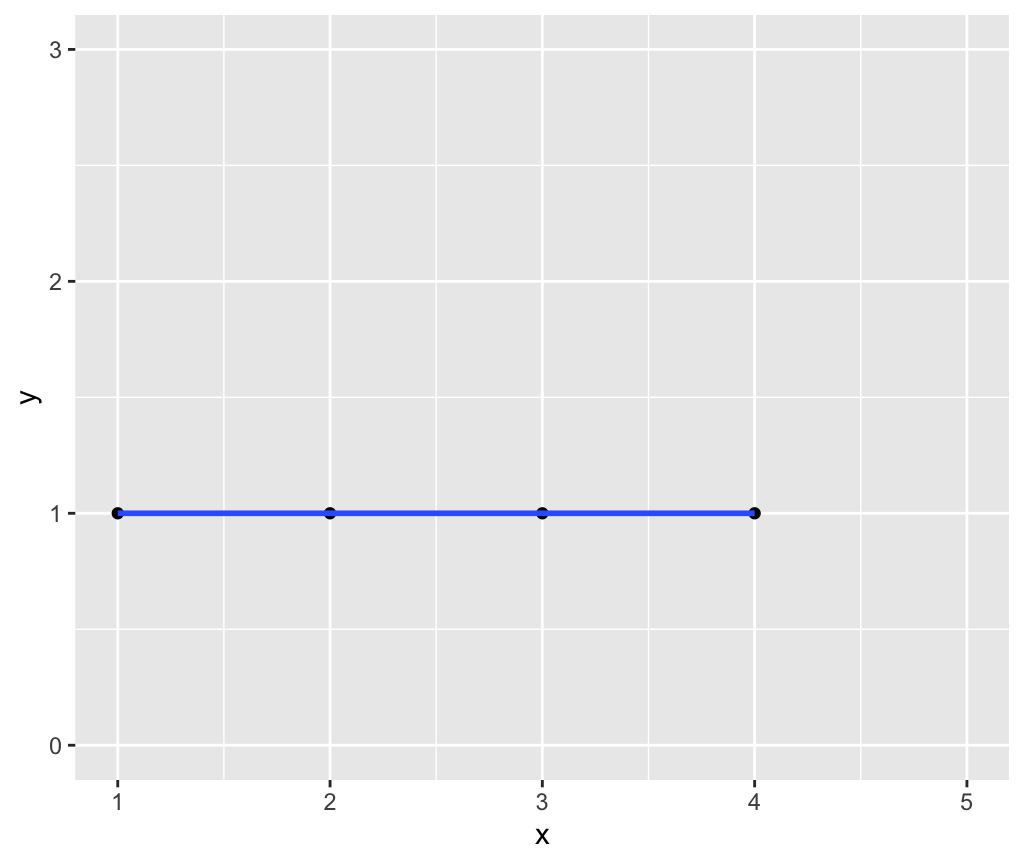
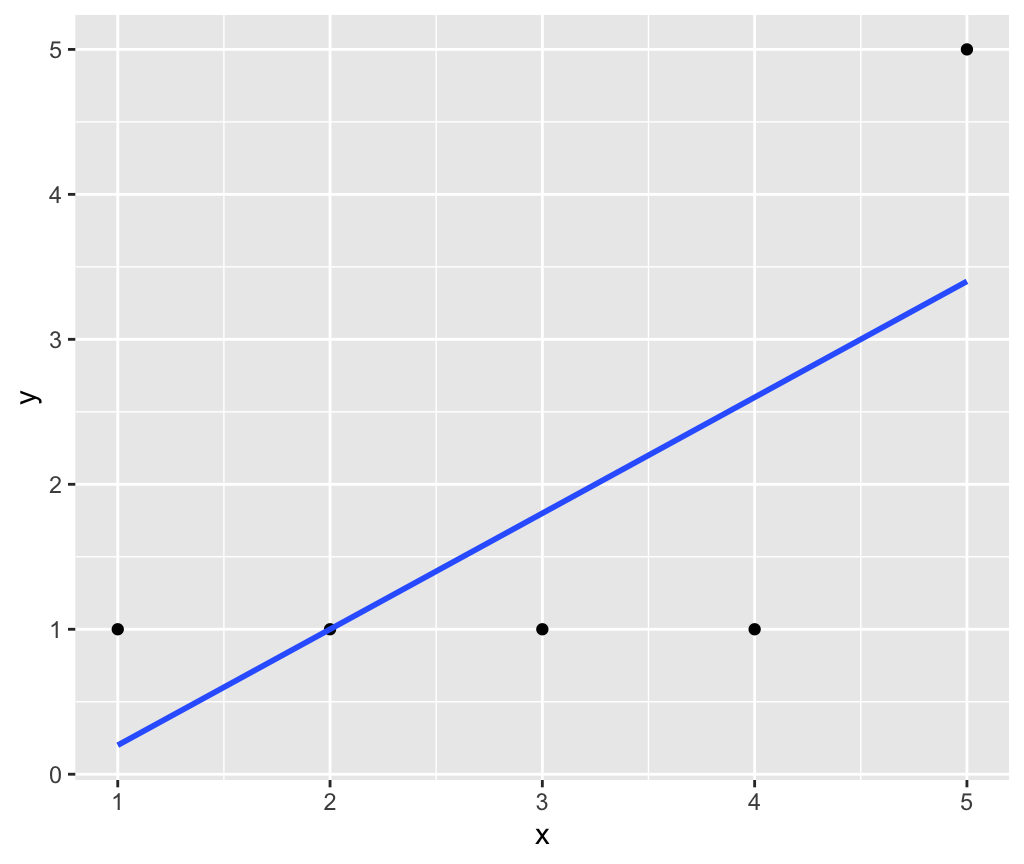
Done Lec25

diff --git a/docs/index.html b/docs/index.html
@@ -501,8 +501,28 @@ h1{font-weight: 400;}
 <div id="announcements" class="section level2">
 <h2>Announcements</h2>
 <ul>
-<li>Install and then load the <code>tidyverse</code> package: An umbrella package for data science <a href="https://www.tidyverse.org/" target="_blank">tidyverse.org/</a></li>
-<li>Smithies in SDS “Data Science Day” this Saturday in the Campus Center</li>
+<li>Install and then load the <code>tidyverse</code> package: An <em>umbrella</em> package that installs/loads many useful packages for data science all at once!
+<ul>
+<li>See <a href="https://www.tidyverse.org/" target="_blank">tidyverse.org</a> for more info.</li>
+<li>In other words</li>
+</ul>
+<div class="sourceCode" id="cb1"><pre class="sourceCode r"><code class="sourceCode r"><a class="sourceLine" id="cb1-1" data-line-number="1"><span class="co"># Don&#39;t do all this:</span></a>
+<a class="sourceLine" id="cb1-2" data-line-number="2"><span class="kw">library</span>(ggplot2)</a>
+<a class="sourceLine" id="cb1-3" data-line-number="3"><span class="kw">library</span>(dplyr)</a>
+<a class="sourceLine" id="cb1-4" data-line-number="4"><span class="kw">library</span>(readr)</a>
+<a class="sourceLine" id="cb1-5" data-line-number="5"><span class="kw">library</span>(tidyr)</a>
+<a class="sourceLine" id="cb1-6" data-line-number="6"><span class="kw">library</span>(stringr)</a>
+<a class="sourceLine" id="cb1-7" data-line-number="7"><span class="kw">library</span>(tibble)</a>
+<a class="sourceLine" id="cb1-8" data-line-number="8"><span class="kw">library</span>(forcats)</a>
+<a class="sourceLine" id="cb1-9" data-line-number="9"><span class="kw">library</span>(purrr)</a>
+<a class="sourceLine" id="cb1-10" data-line-number="10"></a>
+<a class="sourceLine" id="cb1-11" data-line-number="11"><span class="co"># Do this:</span></a>
+<a class="sourceLine" id="cb1-12" data-line-number="12"><span class="kw">library</span>(tidyverse)</a></code></pre></div></li>
+<li>Smithies in SDS “Data Science Day” this Saturday in the Campus Center featuring:
+<ul>
+<li>RStudio tidyverse developer advocate <a href="https://twitter.com/dataandme" target="_blank">Mara Averick</a></li>
+<li>BaseballCloud data scientist and UMass MBA/MS in Sports Management student <a href="https://twitter.com/cfl1ght" target="_blank">Christien Wright</a></li>
+</ul></li>
 </ul>
 <center>
 <img src="static/images/announcements/DSD.png" width="750" />
@@ -514,7 +534,7 @@ h1{font-weight: 400;}
 <div id="chalk-talk" class="section level3">
 <h3>1. Chalk talk</h3>
 <ul>
-<li>Go over Midterm II practice exam solutions (practice exam is posted on Slack under <code>#general_announcements</code>)</li>
+<li>Go over Midterm II practice exam solutions. Practice exam is posted on Slack under <code>#general_announcements</code>.</li>
 </ul>
 </div>
 <div id="in-class-exercise" class="section level3">
@@ -629,30 +649,30 @@ h1{font-weight: 400;}
 <li><code>coord_cartesian(ylim=c(a, b))</code> zooms in on the the y-axis to be between <code>a</code> to <code>b</code> but does not “clip” (throw out) the points outside this interval</li>
 </ul>
 <p>For example, consider the following regression line:</p>
-<div class="sourceCode" id="cb1"><pre class="sourceCode r"><code class="sourceCode r"><a class="sourceLine" id="cb1-1" data-line-number="1"><span class="kw">library</span>(ggplot2)</a>
-<a class="sourceLine" id="cb1-2" data-line-number="2"><span class="kw">library</span>(dplyr)</a>
-<a class="sourceLine" id="cb1-3" data-line-number="3"></a>
-<a class="sourceLine" id="cb1-4" data-line-number="4">example &lt;-<span class="st"> </span><span class="kw">tibble</span>(</a>
-<a class="sourceLine" id="cb1-5" data-line-number="5">  <span class="dt">x =</span> <span class="kw">c</span>(<span class="dv">1</span>, <span class="dv">2</span>, <span class="dv">3</span>, <span class="dv">4</span>, <span class="dv">5</span>),</a>
-<a class="sourceLine" id="cb1-6" data-line-number="6">  <span class="dt">y =</span> <span class="kw">c</span>(<span class="dv">1</span>, <span class="dv">1</span>, <span class="dv">1</span>, <span class="dv">1</span>, <span class="dv">5</span>)</a>
-<a class="sourceLine" id="cb1-7" data-line-number="7">)</a>
-<a class="sourceLine" id="cb1-8" data-line-number="8"></a>
-<a class="sourceLine" id="cb1-9" data-line-number="9"><span class="kw">ggplot</span>(example, <span class="kw">aes</span>(<span class="dt">x =</span> x, <span class="dt">y =</span> y)) <span class="op">+</span></a>
-<a class="sourceLine" id="cb1-10" data-line-number="10"><span class="st">  </span><span class="kw">geom_point</span>() <span class="op">+</span></a>
-<a class="sourceLine" id="cb1-11" data-line-number="11"><span class="st">  </span><span class="kw">geom_smooth</span>(<span class="dt">method =</span> <span class="st">&quot;lm&quot;</span>, <span class="dt">se =</span> <span class="ot">FALSE</span>)</a></code></pre></div>
-<p><img src="index_files/figure-html/unnamed-chunk-1-1.png" width="512" /></p>
-<p>Let’s set the y-axis limit to be between 0 and 3. Using <code>ylim(0, 3)</code> clips out the point <code>(5, 5)</code> and thus the regression line is flat:</p>
-<div class="sourceCode" id="cb2"><pre class="sourceCode r"><code class="sourceCode r"><a class="sourceLine" id="cb2-1" data-line-number="1"><span class="kw">ggplot</span>(example, <span class="kw">aes</span>(<span class="dt">x =</span> x, <span class="dt">y =</span> y)) <span class="op">+</span></a>
-<a class="sourceLine" id="cb2-2" data-line-number="2"><span class="st">  </span><span class="kw">geom_point</span>() <span class="op">+</span></a>
-<a class="sourceLine" id="cb2-3" data-line-number="3"><span class="st">  </span><span class="kw">geom_smooth</span>(<span class="dt">method =</span> <span class="st">&quot;lm&quot;</span>, <span class="dt">se =</span> <span class="ot">FALSE</span>) <span class="op">+</span></a>
-<a class="sourceLine" id="cb2-4" data-line-number="4"><span class="st">  </span><span class="kw">ylim</span>(<span class="dv">0</span>, <span class="dv">3</span>)</a></code></pre></div>
+<div class="sourceCode" id="cb2"><pre class="sourceCode r"><code class="sourceCode r"><a class="sourceLine" id="cb2-1" data-line-number="1"><span class="kw">library</span>(ggplot2)</a>
+<a class="sourceLine" id="cb2-2" data-line-number="2"><span class="kw">library</span>(dplyr)</a>
+<a class="sourceLine" id="cb2-3" data-line-number="3"></a>
+<a class="sourceLine" id="cb2-4" data-line-number="4">example &lt;-<span class="st"> </span><span class="kw">tibble</span>(</a>
+<a class="sourceLine" id="cb2-5" data-line-number="5">  <span class="dt">x =</span> <span class="kw">c</span>(<span class="dv">1</span>, <span class="dv">2</span>, <span class="dv">3</span>, <span class="dv">4</span>, <span class="dv">5</span>),</a>
+<a class="sourceLine" id="cb2-6" data-line-number="6">  <span class="dt">y =</span> <span class="kw">c</span>(<span class="dv">1</span>, <span class="dv">1</span>, <span class="dv">1</span>, <span class="dv">1</span>, <span class="dv">5</span>)</a>
+<a class="sourceLine" id="cb2-7" data-line-number="7">)</a>
+<a class="sourceLine" id="cb2-8" data-line-number="8"></a>
+<a class="sourceLine" id="cb2-9" data-line-number="9"><span class="kw">ggplot</span>(example, <span class="kw">aes</span>(<span class="dt">x =</span> x, <span class="dt">y =</span> y)) <span class="op">+</span></a>
+<a class="sourceLine" id="cb2-10" data-line-number="10"><span class="st">  </span><span class="kw">geom_point</span>() <span class="op">+</span></a>
+<a class="sourceLine" id="cb2-11" data-line-number="11"><span class="st">  </span><span class="kw">geom_smooth</span>(<span class="dt">method =</span> <span class="st">&quot;lm&quot;</span>, <span class="dt">se =</span> <span class="ot">FALSE</span>)</a></code></pre></div>
 <p><img src="index_files/figure-html/unnamed-chunk-2-1.png" width="512" /></p>
-<p>However, using <code>coord_cartesian(ylim = c(0, 3))</code> merely zooms in on this part of the y-axis without clipping the point <code>(5, 5)</code> and thus the regression line is the original one:</p>
+<p>Let’s set the y-axis limit to be between 0 and 3. Using <code>ylim(0, 3)</code> clips out the point <code>(5, 5)</code> and thus the regression line is flat:</p>
 <div class="sourceCode" id="cb3"><pre class="sourceCode r"><code class="sourceCode r"><a class="sourceLine" id="cb3-1" data-line-number="1"><span class="kw">ggplot</span>(example, <span class="kw">aes</span>(<span class="dt">x =</span> x, <span class="dt">y =</span> y)) <span class="op">+</span></a>
 <a class="sourceLine" id="cb3-2" data-line-number="2"><span class="st">  </span><span class="kw">geom_point</span>() <span class="op">+</span></a>
 <a class="sourceLine" id="cb3-3" data-line-number="3"><span class="st">  </span><span class="kw">geom_smooth</span>(<span class="dt">method =</span> <span class="st">&quot;lm&quot;</span>, <span class="dt">se =</span> <span class="ot">FALSE</span>) <span class="op">+</span></a>
-<a class="sourceLine" id="cb3-4" data-line-number="4"><span class="st">  </span><span class="kw">coord_cartesian</span>(<span class="dt">ylim =</span> <span class="kw">c</span>(<span class="dv">0</span>, <span class="dv">3</span>))</a></code></pre></div>
+<a class="sourceLine" id="cb3-4" data-line-number="4"><span class="st">  </span><span class="kw">ylim</span>(<span class="dv">0</span>, <span class="dv">3</span>)</a></code></pre></div>
 <p><img src="index_files/figure-html/unnamed-chunk-3-1.png" width="512" /></p>
+<p>However, using <code>coord_cartesian(ylim = c(0, 3))</code> merely zooms in on this part of the y-axis without clipping the point <code>(5, 5)</code> and thus the regression line is the original one:</p>
+<div class="sourceCode" id="cb4"><pre class="sourceCode r"><code class="sourceCode r"><a class="sourceLine" id="cb4-1" data-line-number="1"><span class="kw">ggplot</span>(example, <span class="kw">aes</span>(<span class="dt">x =</span> x, <span class="dt">y =</span> y)) <span class="op">+</span></a>
+<a class="sourceLine" id="cb4-2" data-line-number="2"><span class="st">  </span><span class="kw">geom_point</span>() <span class="op">+</span></a>
+<a class="sourceLine" id="cb4-3" data-line-number="3"><span class="st">  </span><span class="kw">geom_smooth</span>(<span class="dt">method =</span> <span class="st">&quot;lm&quot;</span>, <span class="dt">se =</span> <span class="ot">FALSE</span>) <span class="op">+</span></a>
+<a class="sourceLine" id="cb4-4" data-line-number="4"><span class="st">  </span><span class="kw">coord_cartesian</span>(<span class="dt">ylim =</span> <span class="kw">c</span>(<span class="dv">0</span>, <span class="dv">3</span>))</a></code></pre></div>
+<p><img src="index_files/figure-html/unnamed-chunk-4-1.png" width="512" /></p>
 </div>
 <div id="in-class-exercise-4" class="section level3">
 <h3>2. In-class exercise</h3>
@@ -954,33 +974,33 @@ I created a cheat sheet of <a href="https://twitter.com/hashtag/dplyr?src=hash&a
 <div id="in-class-exercise-13" class="section level3">
 <h3>2. In-class exercise</h3>
 <p>First, copy this to your <code>classnotes.Rmd</code> and go over code.</p>
-<div class="sourceCode" id="cb4"><pre class="sourceCode r"><code class="sourceCode r"><a class="sourceLine" id="cb4-1" data-line-number="1"><span class="kw">library</span>(ggplot2)</a>
-<a class="sourceLine" id="cb4-2" data-line-number="2"><span class="kw">library</span>(dplyr)</a>
-<a class="sourceLine" id="cb4-3" data-line-number="3"><span class="kw">library</span>(gapminder)</a>
-<a class="sourceLine" id="cb4-4" data-line-number="4"></a>
-<a class="sourceLine" id="cb4-5" data-line-number="5"><span class="co"># 1. Recreate plot from PS02 but with no color:</span></a>
-<a class="sourceLine" id="cb4-6" data-line-number="6">gapminder_<span class="dv">2007</span> &lt;-<span class="st"> </span>gapminder <span class="op">%&gt;%</span><span class="st"> </span></a>
-<a class="sourceLine" id="cb4-7" data-line-number="7"><span class="st">  </span><span class="kw">filter</span>(year <span class="op">==</span><span class="st"> </span><span class="dv">2007</span>)</a>
-<a class="sourceLine" id="cb4-8" data-line-number="8"></a>
-<a class="sourceLine" id="cb4-9" data-line-number="9"><span class="co"># 1.a) Add LOESS smoother layer with geom_smooth()</span></a>
-<a class="sourceLine" id="cb4-10" data-line-number="10"><span class="kw">ggplot</span>(<span class="dt">data =</span> gapminder_<span class="dv">2007</span>, <span class="dt">mapping =</span> <span class="kw">aes</span>(<span class="dt">x =</span> gdpPercap, <span class="dt">y =</span> lifeExp, <span class="dt">size =</span> pop)) <span class="op">+</span></a>
-<a class="sourceLine" id="cb4-11" data-line-number="11"><span class="st">  </span><span class="kw">geom_point</span>() <span class="op">+</span></a>
-<a class="sourceLine" id="cb4-12" data-line-number="12"><span class="st">  </span><span class="kw">geom_smooth</span>()</a>
-<a class="sourceLine" id="cb4-13" data-line-number="13"></a>
-<a class="sourceLine" id="cb4-14" data-line-number="14"><span class="co"># 1.b) Remove standard error bars</span></a>
-<a class="sourceLine" id="cb4-15" data-line-number="15"><span class="kw">ggplot</span>(<span class="dt">data =</span> gapminder_<span class="dv">2007</span>, <span class="dt">mapping =</span> <span class="kw">aes</span>(<span class="dt">x =</span> gdpPercap, <span class="dt">y =</span> lifeExp, <span class="dt">size =</span> pop)) <span class="op">+</span></a>
-<a class="sourceLine" id="cb4-16" data-line-number="16"><span class="st">  </span><span class="kw">geom_point</span>() <span class="op">+</span></a>
-<a class="sourceLine" id="cb4-17" data-line-number="17"><span class="st">  </span><span class="kw">geom_smooth</span>(<span class="dt">se =</span> <span class="ot">FALSE</span>)</a>
-<a class="sourceLine" id="cb4-18" data-line-number="18"></a>
-<a class="sourceLine" id="cb4-19" data-line-number="19"><span class="co"># 1.c) Change span of &quot;smoothing&quot; window by changing span = value. Try different values.</span></a>
-<a class="sourceLine" id="cb4-20" data-line-number="20"><span class="kw">ggplot</span>(<span class="dt">data =</span> gapminder_<span class="dv">2007</span>, <span class="dt">mapping =</span> <span class="kw">aes</span>(<span class="dt">x =</span> gdpPercap, <span class="dt">y =</span> lifeExp, <span class="dt">size =</span> pop)) <span class="op">+</span></a>
-<a class="sourceLine" id="cb4-21" data-line-number="21"><span class="st">  </span><span class="kw">geom_point</span>() <span class="op">+</span></a>
-<a class="sourceLine" id="cb4-22" data-line-number="22"><span class="st">  </span><span class="kw">geom_smooth</span>(<span class="dt">se =</span> <span class="ot">FALSE</span>, <span class="dt">span =</span> <span class="fl">0.25</span>)</a>
-<a class="sourceLine" id="cb4-23" data-line-number="23"></a>
-<a class="sourceLine" id="cb4-24" data-line-number="24"><span class="co"># 1.d) Force line to be straight. i.e. linear regression</span></a>
-<a class="sourceLine" id="cb4-25" data-line-number="25"><span class="kw">ggplot</span>(<span class="dt">data =</span> gapminder_<span class="dv">2007</span>, <span class="dt">mapping =</span> <span class="kw">aes</span>(<span class="dt">x =</span> gdpPercap, <span class="dt">y =</span> lifeExp, <span class="dt">size =</span> pop)) <span class="op">+</span></a>
-<a class="sourceLine" id="cb4-26" data-line-number="26"><span class="st">  </span><span class="kw">geom_point</span>() <span class="op">+</span></a>
-<a class="sourceLine" id="cb4-27" data-line-number="27"><span class="st">  </span><span class="kw">geom_smooth</span>(<span class="dt">method =</span> <span class="st">&quot;lm&quot;</span>, <span class="dt">se =</span> <span class="ot">FALSE</span>)</a></code></pre></div>
+<div class="sourceCode" id="cb5"><pre class="sourceCode r"><code class="sourceCode r"><a class="sourceLine" id="cb5-1" data-line-number="1"><span class="kw">library</span>(ggplot2)</a>
+<a class="sourceLine" id="cb5-2" data-line-number="2"><span class="kw">library</span>(dplyr)</a>
+<a class="sourceLine" id="cb5-3" data-line-number="3"><span class="kw">library</span>(gapminder)</a>
+<a class="sourceLine" id="cb5-4" data-line-number="4"></a>
+<a class="sourceLine" id="cb5-5" data-line-number="5"><span class="co"># 1. Recreate plot from PS02 but with no color:</span></a>
+<a class="sourceLine" id="cb5-6" data-line-number="6">gapminder_<span class="dv">2007</span> &lt;-<span class="st"> </span>gapminder <span class="op">%&gt;%</span><span class="st"> </span></a>
+<a class="sourceLine" id="cb5-7" data-line-number="7"><span class="st">  </span><span class="kw">filter</span>(year <span class="op">==</span><span class="st"> </span><span class="dv">2007</span>)</a>
+<a class="sourceLine" id="cb5-8" data-line-number="8"></a>
+<a class="sourceLine" id="cb5-9" data-line-number="9"><span class="co"># 1.a) Add LOESS smoother layer with geom_smooth()</span></a>
+<a class="sourceLine" id="cb5-10" data-line-number="10"><span class="kw">ggplot</span>(<span class="dt">data =</span> gapminder_<span class="dv">2007</span>, <span class="dt">mapping =</span> <span class="kw">aes</span>(<span class="dt">x =</span> gdpPercap, <span class="dt">y =</span> lifeExp, <span class="dt">size =</span> pop)) <span class="op">+</span></a>
+<a class="sourceLine" id="cb5-11" data-line-number="11"><span class="st">  </span><span class="kw">geom_point</span>() <span class="op">+</span></a>
+<a class="sourceLine" id="cb5-12" data-line-number="12"><span class="st">  </span><span class="kw">geom_smooth</span>()</a>
+<a class="sourceLine" id="cb5-13" data-line-number="13"></a>
+<a class="sourceLine" id="cb5-14" data-line-number="14"><span class="co"># 1.b) Remove standard error bars</span></a>
+<a class="sourceLine" id="cb5-15" data-line-number="15"><span class="kw">ggplot</span>(<span class="dt">data =</span> gapminder_<span class="dv">2007</span>, <span class="dt">mapping =</span> <span class="kw">aes</span>(<span class="dt">x =</span> gdpPercap, <span class="dt">y =</span> lifeExp, <span class="dt">size =</span> pop)) <span class="op">+</span></a>
+<a class="sourceLine" id="cb5-16" data-line-number="16"><span class="st">  </span><span class="kw">geom_point</span>() <span class="op">+</span></a>
+<a class="sourceLine" id="cb5-17" data-line-number="17"><span class="st">  </span><span class="kw">geom_smooth</span>(<span class="dt">se =</span> <span class="ot">FALSE</span>)</a>
+<a class="sourceLine" id="cb5-18" data-line-number="18"></a>
+<a class="sourceLine" id="cb5-19" data-line-number="19"><span class="co"># 1.c) Change span of &quot;smoothing&quot; window by changing span = value. Try different values.</span></a>
+<a class="sourceLine" id="cb5-20" data-line-number="20"><span class="kw">ggplot</span>(<span class="dt">data =</span> gapminder_<span class="dv">2007</span>, <span class="dt">mapping =</span> <span class="kw">aes</span>(<span class="dt">x =</span> gdpPercap, <span class="dt">y =</span> lifeExp, <span class="dt">size =</span> pop)) <span class="op">+</span></a>
+<a class="sourceLine" id="cb5-21" data-line-number="21"><span class="st">  </span><span class="kw">geom_point</span>() <span class="op">+</span></a>
+<a class="sourceLine" id="cb5-22" data-line-number="22"><span class="st">  </span><span class="kw">geom_smooth</span>(<span class="dt">se =</span> <span class="ot">FALSE</span>, <span class="dt">span =</span> <span class="fl">0.25</span>)</a>
+<a class="sourceLine" id="cb5-23" data-line-number="23"></a>
+<a class="sourceLine" id="cb5-24" data-line-number="24"><span class="co"># 1.d) Force line to be straight. i.e. linear regression</span></a>
+<a class="sourceLine" id="cb5-25" data-line-number="25"><span class="kw">ggplot</span>(<span class="dt">data =</span> gapminder_<span class="dv">2007</span>, <span class="dt">mapping =</span> <span class="kw">aes</span>(<span class="dt">x =</span> gdpPercap, <span class="dt">y =</span> lifeExp, <span class="dt">size =</span> pop)) <span class="op">+</span></a>
+<a class="sourceLine" id="cb5-26" data-line-number="26"><span class="st">  </span><span class="kw">geom_point</span>() <span class="op">+</span></a>
+<a class="sourceLine" id="cb5-27" data-line-number="27"><span class="st">  </span><span class="kw">geom_smooth</span>(<span class="dt">method =</span> <span class="st">&quot;lm&quot;</span>, <span class="dt">se =</span> <span class="ot">FALSE</span>)</a></code></pre></div>
 <p>Second, in <code>loess.Rmd</code> you’re change only the code within the code</p>
 <pre><code>renderPlot({ 
     
@@ -1041,33 +1061,33 @@ I created a cheat sheet of <a href="https://twitter.com/hashtag/dplyr?src=hash&a
 <li>Change both the color of the scatterplot points and the fill of the bars. You can do this by selecting a palette from <a href="http://colorbrewer2.org/" target="_blank">colorbrewer2.org</a> or by setting them manually</li>
 </ol></li>
 </ul>
-<div class="sourceCode" id="cb6"><pre class="sourceCode r"><code class="sourceCode r"><a class="sourceLine" id="cb6-1" data-line-number="1"><span class="kw">library</span>(ggplot2)</a>
-<a class="sourceLine" id="cb6-2" data-line-number="2"><span class="kw">library</span>(dplyr)</a>
-<a class="sourceLine" id="cb6-3" data-line-number="3"><span class="kw">library</span>(nycflights13)</a>
-<a class="sourceLine" id="cb6-4" data-line-number="4"><span class="kw">library</span>(gapminder)</a>
-<a class="sourceLine" id="cb6-5" data-line-number="5"></a>
-<a class="sourceLine" id="cb6-6" data-line-number="6"><span class="co"># 1. Recreate plot from PS02, but change default &quot;color&quot; palette of points:</span></a>
-<a class="sourceLine" id="cb6-7" data-line-number="7">gapminder_<span class="dv">2007</span> &lt;-<span class="st"> </span>gapminder <span class="op">%&gt;%</span><span class="st"> </span></a>
-<a class="sourceLine" id="cb6-8" data-line-number="8"><span class="st">  </span><span class="kw">filter</span>(year <span class="op">==</span><span class="st"> </span><span class="dv">2007</span>)</a>
-<a class="sourceLine" id="cb6-9" data-line-number="9"><span class="kw">ggplot</span>(<span class="dt">data =</span> gapminder_<span class="dv">2007</span>, </a>
-<a class="sourceLine" id="cb6-10" data-line-number="10">       <span class="dt">mapping =</span> <span class="kw">aes</span>(<span class="dt">x =</span> gdpPercap, <span class="dt">y =</span> lifeExp, <span class="dt">size =</span> pop, <span class="dt">color =</span> continent)) <span class="op">+</span></a>
-<a class="sourceLine" id="cb6-11" data-line-number="11"><span class="st">  </span><span class="kw">geom_point</span>() <span class="op">+</span></a>
-<a class="sourceLine" id="cb6-12" data-line-number="12"><span class="st">  </span><span class="kw">scale_color_brewer</span>(<span class="dt">palette =</span> <span class="st">&quot;Set1&quot;</span>)</a>
-<a class="sourceLine" id="cb6-13" data-line-number="13"></a>
-<a class="sourceLine" id="cb6-14" data-line-number="14"><span class="co"># 2.a) Recreate Figure 2.26 but change default &quot;fill&quot; color of bars by adding a </span></a>
-<a class="sourceLine" id="cb6-15" data-line-number="15"><span class="co"># palette layer:</span></a>
-<a class="sourceLine" id="cb6-16" data-line-number="16"><span class="kw">ggplot</span>(<span class="dt">data =</span> flights, <span class="dt">mapping =</span> <span class="kw">aes</span>(<span class="dt">x =</span> carrier, <span class="dt">fill =</span> origin)) <span class="op">+</span></a>
-<a class="sourceLine" id="cb6-17" data-line-number="17"><span class="st">  </span><span class="kw">geom_bar</span>(<span class="dt">position =</span> <span class="kw">position_dodge</span>(<span class="dt">preserve =</span> <span class="st">&quot;single&quot;</span>)) <span class="op">+</span></a>
-<a class="sourceLine" id="cb6-18" data-line-number="18"><span class="st">  </span><span class="kw">scale_fill_brewer</span>(<span class="dt">palette =</span> <span class="st">&quot;Set1&quot;</span>)</a>
-<a class="sourceLine" id="cb6-19" data-line-number="19"></a>
-<a class="sourceLine" id="cb6-20" data-line-number="20"><span class="co"># 2.b) Recreate Figure 2.26 but change default &quot;fill&quot; color of bars by manually </span></a>
-<a class="sourceLine" id="cb6-21" data-line-number="21"><span class="co"># changing colors in a layer:</span></a>
-<a class="sourceLine" id="cb6-22" data-line-number="22"><span class="kw">ggplot</span>(<span class="dt">data =</span> flights, <span class="dt">mapping =</span> <span class="kw">aes</span>(<span class="dt">x =</span> carrier, <span class="dt">fill =</span> origin)) <span class="op">+</span></a>
-<a class="sourceLine" id="cb6-23" data-line-number="23"><span class="st">  </span><span class="kw">geom_bar</span>(<span class="dt">position =</span> <span class="kw">position_dodge</span>(<span class="dt">preserve =</span> <span class="st">&quot;single&quot;</span>)) <span class="op">+</span></a>
-<a class="sourceLine" id="cb6-24" data-line-number="24"><span class="st">  </span><span class="kw">scale_fill_manual</span>(<span class="dt">values =</span> <span class="kw">c</span>(<span class="st">&quot;darkorange&quot;</span>, <span class="st">&quot;forestgreen&quot;</span>, <span class="st">&quot;navyblue&quot;</span>))</a>
-<a class="sourceLine" id="cb6-25" data-line-number="25"></a>
-<a class="sourceLine" id="cb6-26" data-line-number="26"><span class="co"># 2.c) Soooooo many choices...</span></a>
-<a class="sourceLine" id="cb6-27" data-line-number="27"><span class="kw">colors</span>()</a></code></pre></div>
+<div class="sourceCode" id="cb7"><pre class="sourceCode r"><code class="sourceCode r"><a class="sourceLine" id="cb7-1" data-line-number="1"><span class="kw">library</span>(ggplot2)</a>
+<a class="sourceLine" id="cb7-2" data-line-number="2"><span class="kw">library</span>(dplyr)</a>
+<a class="sourceLine" id="cb7-3" data-line-number="3"><span class="kw">library</span>(nycflights13)</a>
+<a class="sourceLine" id="cb7-4" data-line-number="4"><span class="kw">library</span>(gapminder)</a>
+<a class="sourceLine" id="cb7-5" data-line-number="5"></a>
+<a class="sourceLine" id="cb7-6" data-line-number="6"><span class="co"># 1. Recreate plot from PS02, but change default &quot;color&quot; palette of points:</span></a>
+<a class="sourceLine" id="cb7-7" data-line-number="7">gapminder_<span class="dv">2007</span> &lt;-<span class="st"> </span>gapminder <span class="op">%&gt;%</span><span class="st"> </span></a>
+<a class="sourceLine" id="cb7-8" data-line-number="8"><span class="st">  </span><span class="kw">filter</span>(year <span class="op">==</span><span class="st"> </span><span class="dv">2007</span>)</a>
+<a class="sourceLine" id="cb7-9" data-line-number="9"><span class="kw">ggplot</span>(<span class="dt">data =</span> gapminder_<span class="dv">2007</span>, </a>
+<a class="sourceLine" id="cb7-10" data-line-number="10">       <span class="dt">mapping =</span> <span class="kw">aes</span>(<span class="dt">x =</span> gdpPercap, <span class="dt">y =</span> lifeExp, <span class="dt">size =</span> pop, <span class="dt">color =</span> continent)) <span class="op">+</span></a>
+<a class="sourceLine" id="cb7-11" data-line-number="11"><span class="st">  </span><span class="kw">geom_point</span>() <span class="op">+</span></a>
+<a class="sourceLine" id="cb7-12" data-line-number="12"><span class="st">  </span><span class="kw">scale_color_brewer</span>(<span class="dt">palette =</span> <span class="st">&quot;Set1&quot;</span>)</a>
+<a class="sourceLine" id="cb7-13" data-line-number="13"></a>
+<a class="sourceLine" id="cb7-14" data-line-number="14"><span class="co"># 2.a) Recreate Figure 2.26 but change default &quot;fill&quot; color of bars by adding a </span></a>
+<a class="sourceLine" id="cb7-15" data-line-number="15"><span class="co"># palette layer:</span></a>
+<a class="sourceLine" id="cb7-16" data-line-number="16"><span class="kw">ggplot</span>(<span class="dt">data =</span> flights, <span class="dt">mapping =</span> <span class="kw">aes</span>(<span class="dt">x =</span> carrier, <span class="dt">fill =</span> origin)) <span class="op">+</span></a>
+<a class="sourceLine" id="cb7-17" data-line-number="17"><span class="st">  </span><span class="kw">geom_bar</span>(<span class="dt">position =</span> <span class="kw">position_dodge</span>(<span class="dt">preserve =</span> <span class="st">&quot;single&quot;</span>)) <span class="op">+</span></a>
+<a class="sourceLine" id="cb7-18" data-line-number="18"><span class="st">  </span><span class="kw">scale_fill_brewer</span>(<span class="dt">palette =</span> <span class="st">&quot;Set1&quot;</span>)</a>
+<a class="sourceLine" id="cb7-19" data-line-number="19"></a>
+<a class="sourceLine" id="cb7-20" data-line-number="20"><span class="co"># 2.b) Recreate Figure 2.26 but change default &quot;fill&quot; color of bars by manually </span></a>
+<a class="sourceLine" id="cb7-21" data-line-number="21"><span class="co"># changing colors in a layer:</span></a>
+<a class="sourceLine" id="cb7-22" data-line-number="22"><span class="kw">ggplot</span>(<span class="dt">data =</span> flights, <span class="dt">mapping =</span> <span class="kw">aes</span>(<span class="dt">x =</span> carrier, <span class="dt">fill =</span> origin)) <span class="op">+</span></a>
+<a class="sourceLine" id="cb7-23" data-line-number="23"><span class="st">  </span><span class="kw">geom_bar</span>(<span class="dt">position =</span> <span class="kw">position_dodge</span>(<span class="dt">preserve =</span> <span class="st">&quot;single&quot;</span>)) <span class="op">+</span></a>
+<a class="sourceLine" id="cb7-24" data-line-number="24"><span class="st">  </span><span class="kw">scale_fill_manual</span>(<span class="dt">values =</span> <span class="kw">c</span>(<span class="st">&quot;darkorange&quot;</span>, <span class="st">&quot;forestgreen&quot;</span>, <span class="st">&quot;navyblue&quot;</span>))</a>
+<a class="sourceLine" id="cb7-25" data-line-number="25"></a>
+<a class="sourceLine" id="cb7-26" data-line-number="26"><span class="co"># 2.c) Soooooo many choices...</span></a>
+<a class="sourceLine" id="cb7-27" data-line-number="27"><span class="kw">colors</span>()</a></code></pre></div>
 <hr />
 </div>
 </div>
@@ -1099,10 +1119,10 @@ I created a cheat sheet of <a href="https://twitter.com/hashtag/dplyr?src=hash&a
 <li>Get the <a href="https://www.color-hex.com/color/f8766d" target="_blank">color hex codes</a> of <code>ggplot2</code> default color palette:</li>
 </ol></li>
 </ul>
-<div class="sourceCode" id="cb7"><pre class="sourceCode r"><code class="sourceCode r"><a class="sourceLine" id="cb7-1" data-line-number="1"><span class="kw">library</span>(scales)</a>
-<a class="sourceLine" id="cb7-2" data-line-number="2">number_of_colors &lt;-<span class="st"> </span><span class="dv">3</span></a>
-<a class="sourceLine" id="cb7-3" data-line-number="3"><span class="kw">show_col</span>(<span class="kw">hue_pal</span>()(number_of_colors))</a></code></pre></div>
-<p><img src="index_files/figure-html/unnamed-chunk-6-1.png" width="768" /></p>
+<div class="sourceCode" id="cb8"><pre class="sourceCode r"><code class="sourceCode r"><a class="sourceLine" id="cb8-1" data-line-number="1"><span class="kw">library</span>(scales)</a>
+<a class="sourceLine" id="cb8-2" data-line-number="2">number_of_colors &lt;-<span class="st"> </span><span class="dv">3</span></a>
+<a class="sourceLine" id="cb8-3" data-line-number="3"><span class="kw">show_col</span>(<span class="kw">hue_pal</span>()(number_of_colors))</a></code></pre></div>
+<p><img src="index_files/figure-html/unnamed-chunk-7-1.png" width="768" /></p>
 </div>
 <div id="exercise-on-pie-charts-vs-barplots" class="section level3">
 <h3>2. Exercise on pie charts vs barplots</h3>
@@ -1238,7 +1258,7 @@ I 😍😍😍 how boxplots make an appearance in Season 4 of <a href="https://t
 </tbody>
 </table>
 <p>Let’s compare the points and the corresponding boxplot side-by-side with the values on the <span class="math inline">\(y\)</span>-axis matching:</p>
-<p><img src="index_files/figure-html/unnamed-chunk-8-1.png" width="768" /></p>
+<p><img src="index_files/figure-html/unnamed-chunk-9-1.png" width="768" /></p>
 </div>
 <div id="in-class-exercise-17" class="section level3">
 <h3>2. In-class exercise</h3>
